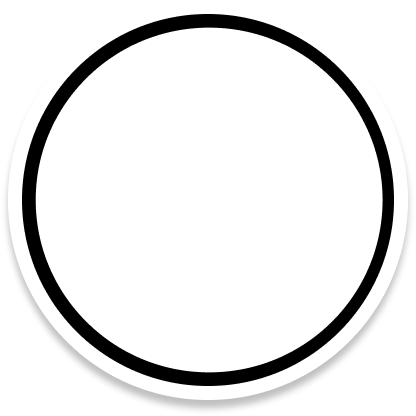
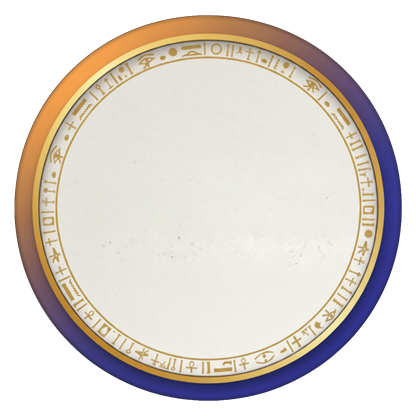
AR Fully finished

diff --git a/src/main.ts b/src/main.ts
@@ -26,6 +26,7 @@ let geminiModel: GenerativeModel | null = null;
 let modeOverlay: HTMLDivElement;
 let arModeBtn: HTMLButtonElement;
 let aiModeBtn: HTMLButtonElement;
+let backBtn: HTMLButtonElement;
 let selectedMode: 'AR' | 'AI' | null = null;
 let currentLens: Lens;
 let cameraKit: any;
@@ -40,7 +41,7 @@ document.addEventListener('DOMContentLoaded', async () => {
 // Initialize Camera Kit
 async function initCameraKit() {
   try {
-    await fetchGeminiKey();
+    // await fetchGeminiKey();
     cameraKit = await bootstrapCameraKit({ apiToken: APP_CONFIG.CAMERA_KIT_API_TOKEN });
     cameraKitSession = await cameraKit.createSession({ liveRenderTarget: camerakitCanvas });
     // Hide loader immediately and start splash fade-out
@@ -76,13 +77,15 @@ function setupCaptureUI() {
   downloadImageBtn = document.getElementById('download-btn') as HTMLButtonElement;
   closePreviewBtn = document.getElementById('close-btn') as HTMLButtonElement;
   sendToGeminiBtn = document.getElementById('send-gemini-btn') as HTMLButtonElement;
+  backBtn = document.getElementById('back-btn') as HTMLButtonElement;
   captureBtn.style.display = 'flex';
   captureBtn.addEventListener('click', capturePhoto);
   closePreviewBtn.addEventListener('click', ClosePreview);
   downloadImageBtn.addEventListener('click', DownloadImage);
   sendToGeminiBtn.addEventListener('click', sendImageToGemini);
+  backBtn.addEventListener('click', BackBtnClk);
 }
-
+//@ts-ignore
 async function fetchGeminiKey() {
   const res = await fetch("https://orange-gem-api.vercel.app/api/get-key");
   const data = await res.json();
@@ -132,9 +135,10 @@ function capturePhoto() {
 
     // Hide capture button, show download and close buttons
     if (captureBtn) captureBtn.style.display = 'none';
+    if (backBtn) backBtn.style.display = 'none';
     if (downloadImageBtn) downloadImageBtn.style.display = 'flex';
     if (closePreviewBtn) closePreviewBtn.style.display = 'flex';
-    if (sendToGeminiBtn) sendToGeminiBtn.style.display = 'flex';
+    if (sendToGeminiBtn && selectedMode === 'AI') sendToGeminiBtn.style.display = 'flex';
 
   } catch (error) {
     console.error('Failed to capture photo:', error);
@@ -164,8 +168,18 @@ function ClosePreview() {
     sendToGeminiBtn.disabled = false;
     sendToGeminiBtn.textContent = 'Send to Gemini';
   }
-  // Show capture button again
+  // Show capture & Back buttons again
   if (captureBtn) captureBtn.style.display = 'flex';
+  if (backBtn) backBtn.style.display = 'flex';
+}
+
+function BackBtnClk() {
+  if (selectedMode === 'AR') {
+    cameraKitSession.removeLens();
+    backBtn.style.display = 'none';
+    selectedMode = null;
+    showModeSelectionOverlay();
+  }
 }
 
 function DownloadImage() {
@@ -336,6 +350,6 @@ async function handleModeSelection(mode: 'AR' | 'AI') {
   if (mode === 'AR') {
     currentLens = await cameraKit.lensRepository.loadLens(APP_CONFIG.LENS_ID, APP_CONFIG.LENS_GROUP_ID);
     await cameraKitSession.applyLens(currentLens);
-
+    if (backBtn) backBtn.style.display = 'flex';
   }
 }

diff --git a/styles.css b/styles.css
@@ -102,6 +102,8 @@ body.splash-hidden::before {
     height: 60px;
     border-radius: 50%;
     background: url('/Capture-Btn.png') center center no-repeat;
+    background-size: cover;
+    background-color: transparent;
     border: none;
     cursor: pointer;
     display: flex;
@@ -125,8 +127,8 @@ body.splash-hidden::before {
     position: fixed;
     top: 30px;
     right: 30px;
-    width: 50px;
-    height: 50px;
+    width: 70px;
+    height: 70px;
     border-radius: 50%;
     background: url('/DownloadBtn.png') center center no-repeat;
     background-size: 80%;
@@ -152,8 +154,8 @@ body.splash-hidden::before {
     position: fixed;
     top: 30px;
     left: 30px;
-    width: 50px;
-    height: 50px;
+    width: 70px;        
+    height: 70px;
     border-radius: 50%;
     background: url('/CloseBtn.png') center center no-repeat;
     background-size: 80%;
@@ -171,6 +173,32 @@ body.splash-hidden::before {
 }
 
 .close-btn:active {
+    transform: scale(0.95);
+}
+/* Back Button Styling */
+.back-btn {
+    position: fixed;
+    top: 30px;
+    left: 30px;
+    width: 70px;
+    height: 70px;
+    border-radius: 50%;
+    background: url('/Back-Btn.png') center center no-repeat;
+    background-size: 80%;
+    border: none;
+    cursor: pointer;
+    display: flex;
+    align-items: center;
+    justify-content: center;
+    transition: all 0.3s ease;
+    z-index: 1001;
+}
+
+.back-btn:hover {
+    transform: scale(1.1);
+}
+
+.back-btn:active {
     transform: scale(0.95);
 }
 

diff --git a/index.html b/index.html
@@ -32,7 +32,9 @@
       <!-- Close Button (Hidden by default) -->
       <button id="close-btn" class="close-btn" style="display: none;">
       </button>
-
+      <!-- Back Button (Hidden by default) -->
+      <button id="back-btn" class="back-btn" style="display: none;">
+      </button>
       <!-- Send to Gemini Button (Hidden by default) -->
       <button id="send-gemini-btn" class="send-gemini-btn" style="display: none;">
         Send to Gemini
